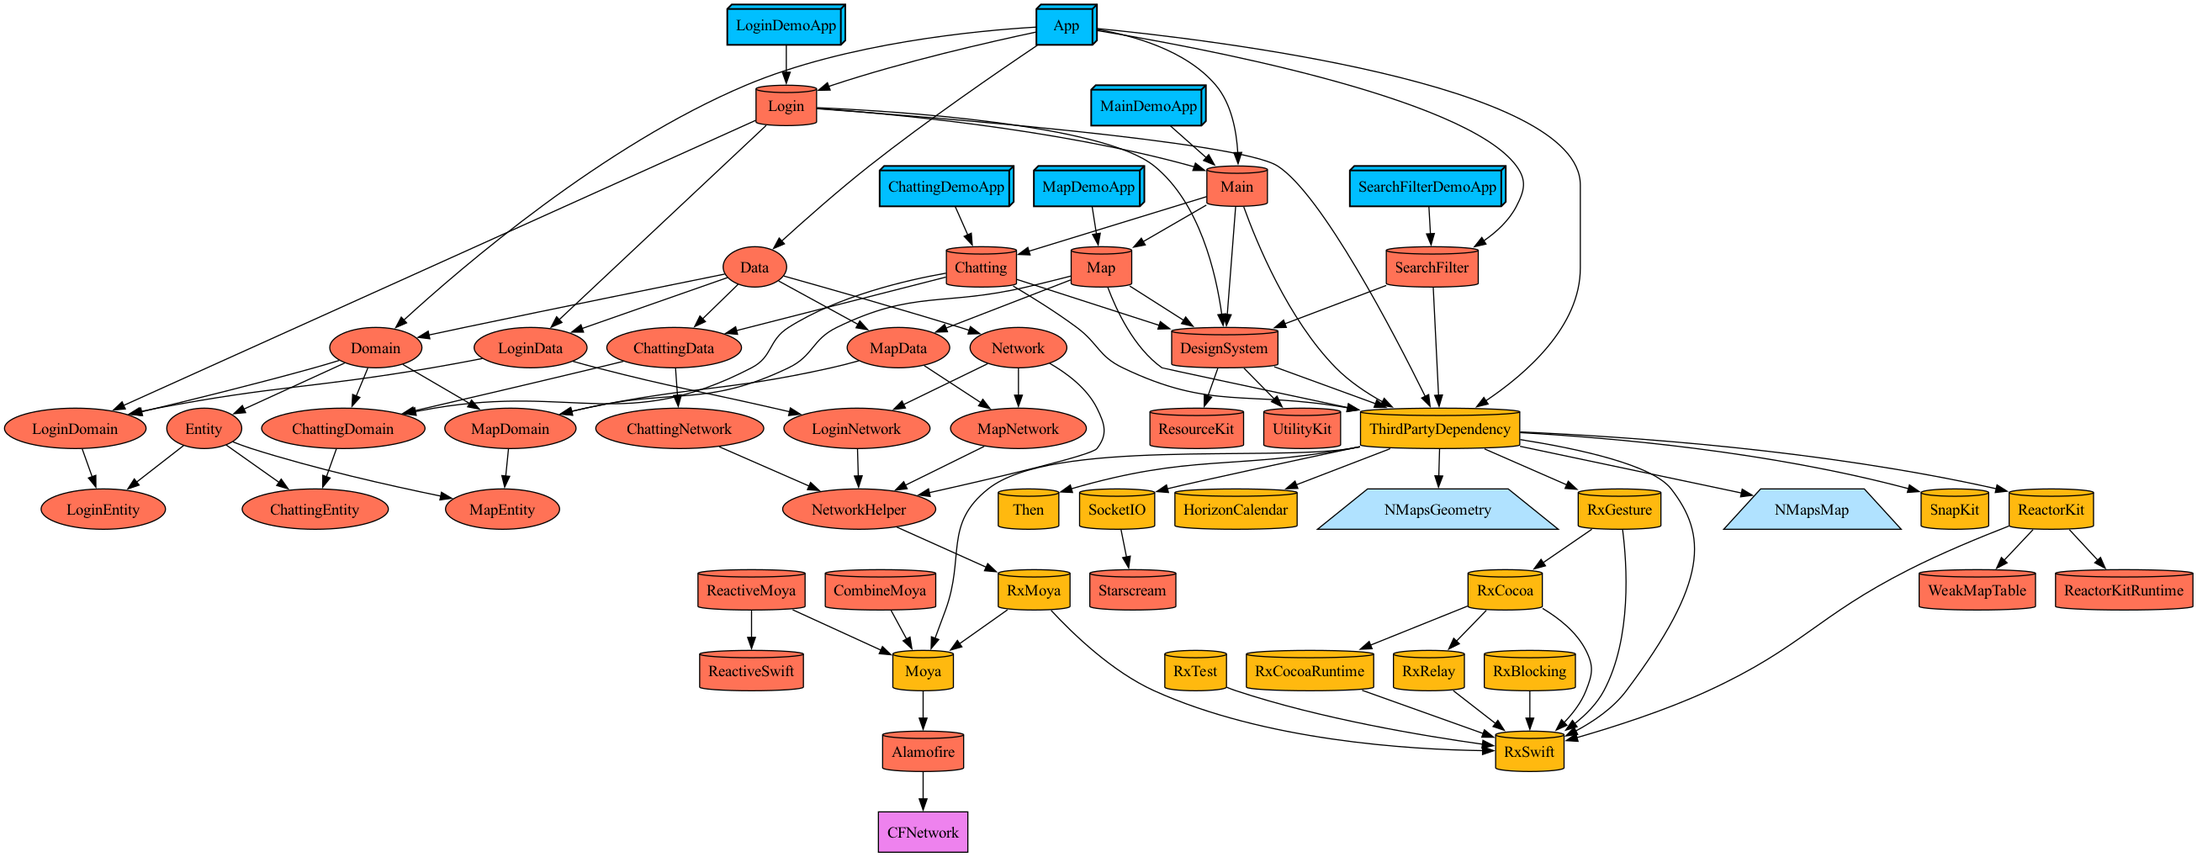
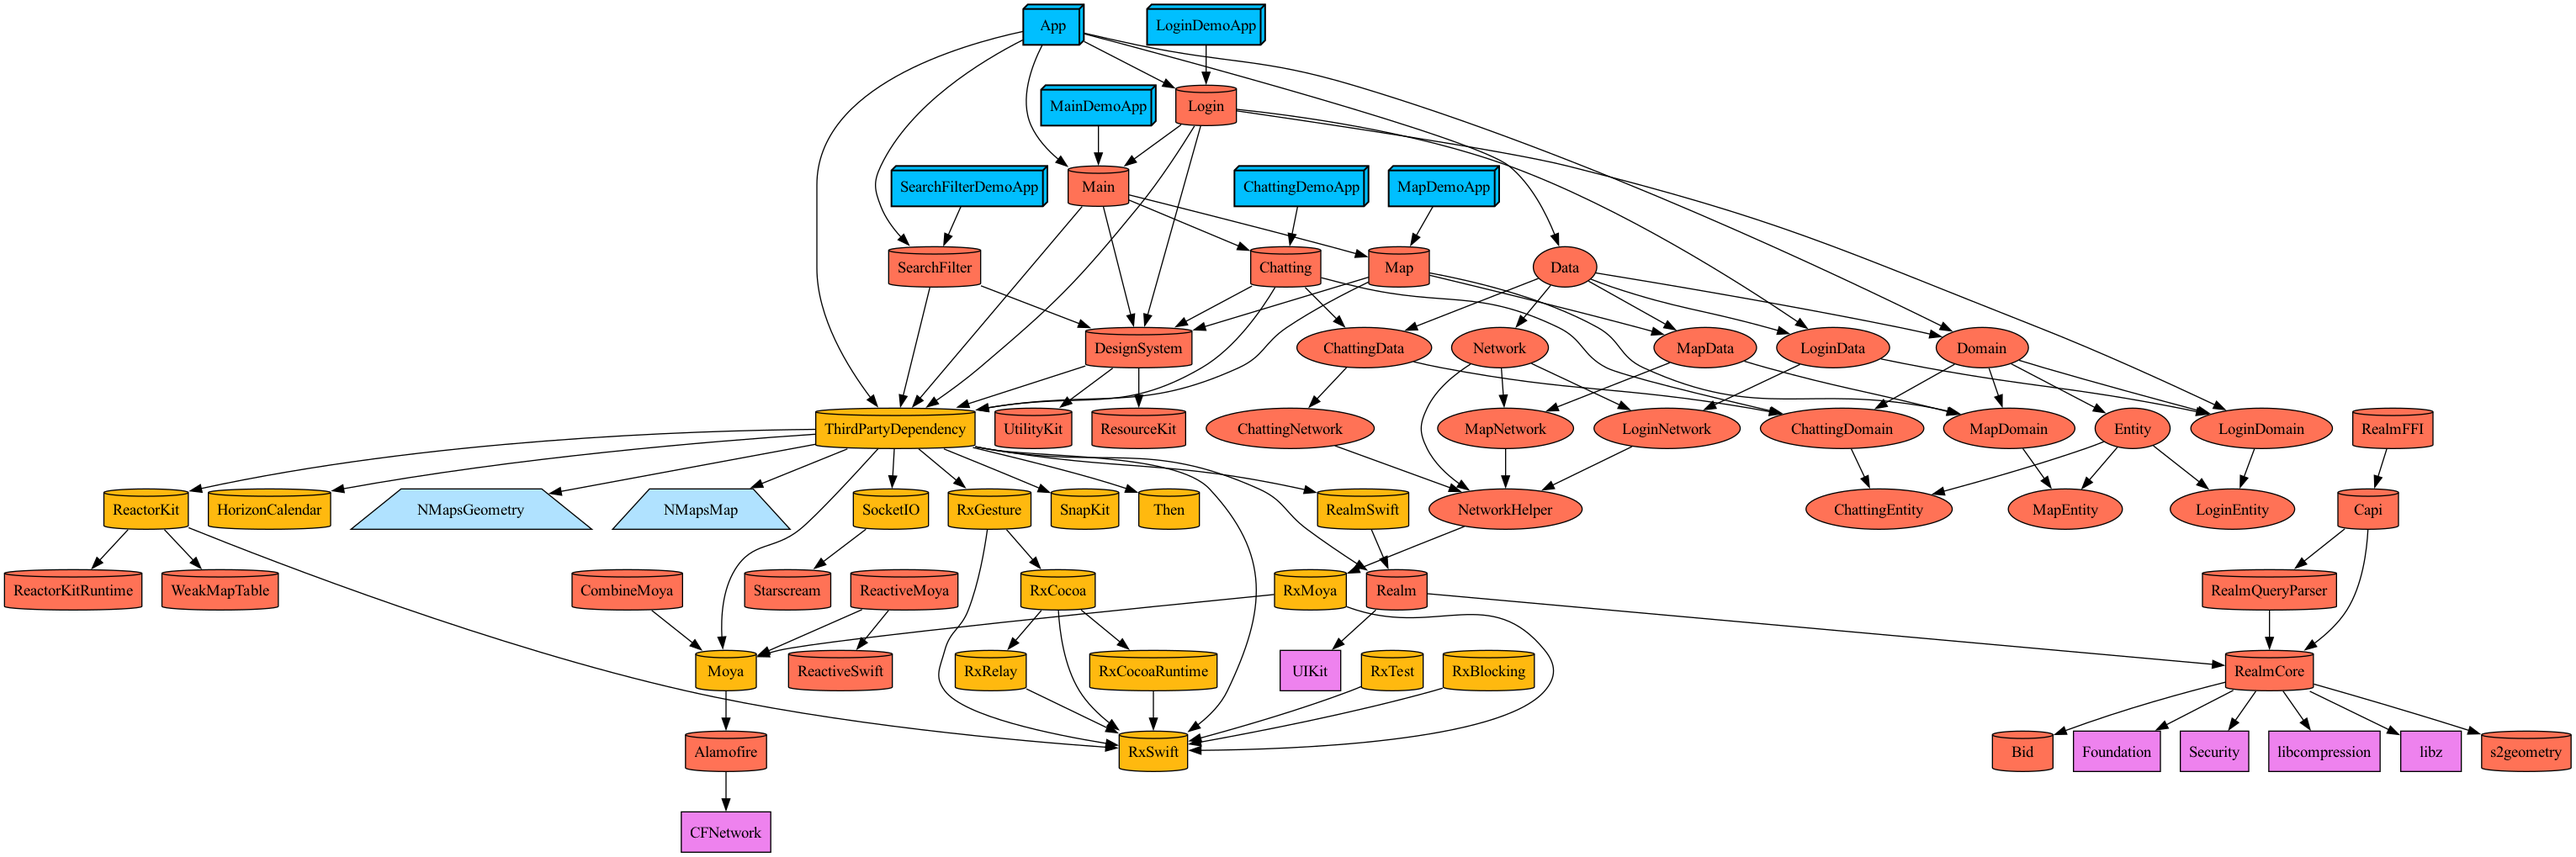
Merge branch 'dev' into Dong/Chatting/Soket

diff --git a/Tuist/Dependencies.swift b/Tuist/Dependencies.swift
@@ -17,7 +17,8 @@ let thirdPartySPM = SwiftPackageManagerDependencies(
     .remote(url: "https://github.com/Guboneui/NaverMap-SPM", requirement: .upToNextMajor(from: "3.17.0")),
     .package(url: "https://github.com/ReactorKit/ReactorKit.git", .upToNextMajor(from: "3.0.0")),
     .package(url: "https://github.com/airbnb/HorizonCalendar.git", from: "2.0.0"),
-    .package(url: "https://github.com/socketio/socket.io-client-swift", .upToNextMajor(from: "16.0.0"))
+    .package(url: "https://github.com/socketio/socket.io-client-swift", .upToNextMajor(from: "16.0.0")),
+    .package(url: "https://github.com/realm/realm-swift", .upToNextMajor(from: "10.46.0"))
   ],
   productTypes: [
     "SnapKit": .framework,
@@ -29,7 +30,8 @@ let thirdPartySPM = SwiftPackageManagerDependencies(
     "NMapsMap": .framework,
     "ReactorKit": .framework,
     "HorizonCalendar": .framework,
-    "SocketIO": .framework
+    "SocketIO": .framework,
+    "RealmSwift": .framework
   ]
 )
 

diff --git a/Plugins/ThirdPartyDependencyPlugin/ProjectDescriptionHelpers/ThirdPartyDependency+Project.swift b/Plugins/ThirdPartyDependencyPlugin/ProjectDescriptionHelpers/ThirdPartyDependency+Project.swift
@@ -25,7 +25,8 @@ public extension TargetDependency.ThirdParty {
     NMapsMap,
     ReactorKit,
     HorizontalCalendar,
-    SocketIO
+    SocketIO,
+    RealmSwift
   ]
   
   static func project(name: String) -> TargetDependency {
@@ -48,4 +49,5 @@ extension TargetDependency.ThirdParty {
   static let ReactorKit = TargetDependency.external(name: "ReactorKit")
   static let HorizontalCalendar = TargetDependency.external(name: "HorizonCalendar")
   static let SocketIO = TargetDependency.external(name: "SocketIO")
+  static let RealmSwift = TargetDependency.external(name: "RealmSwift")
 }
